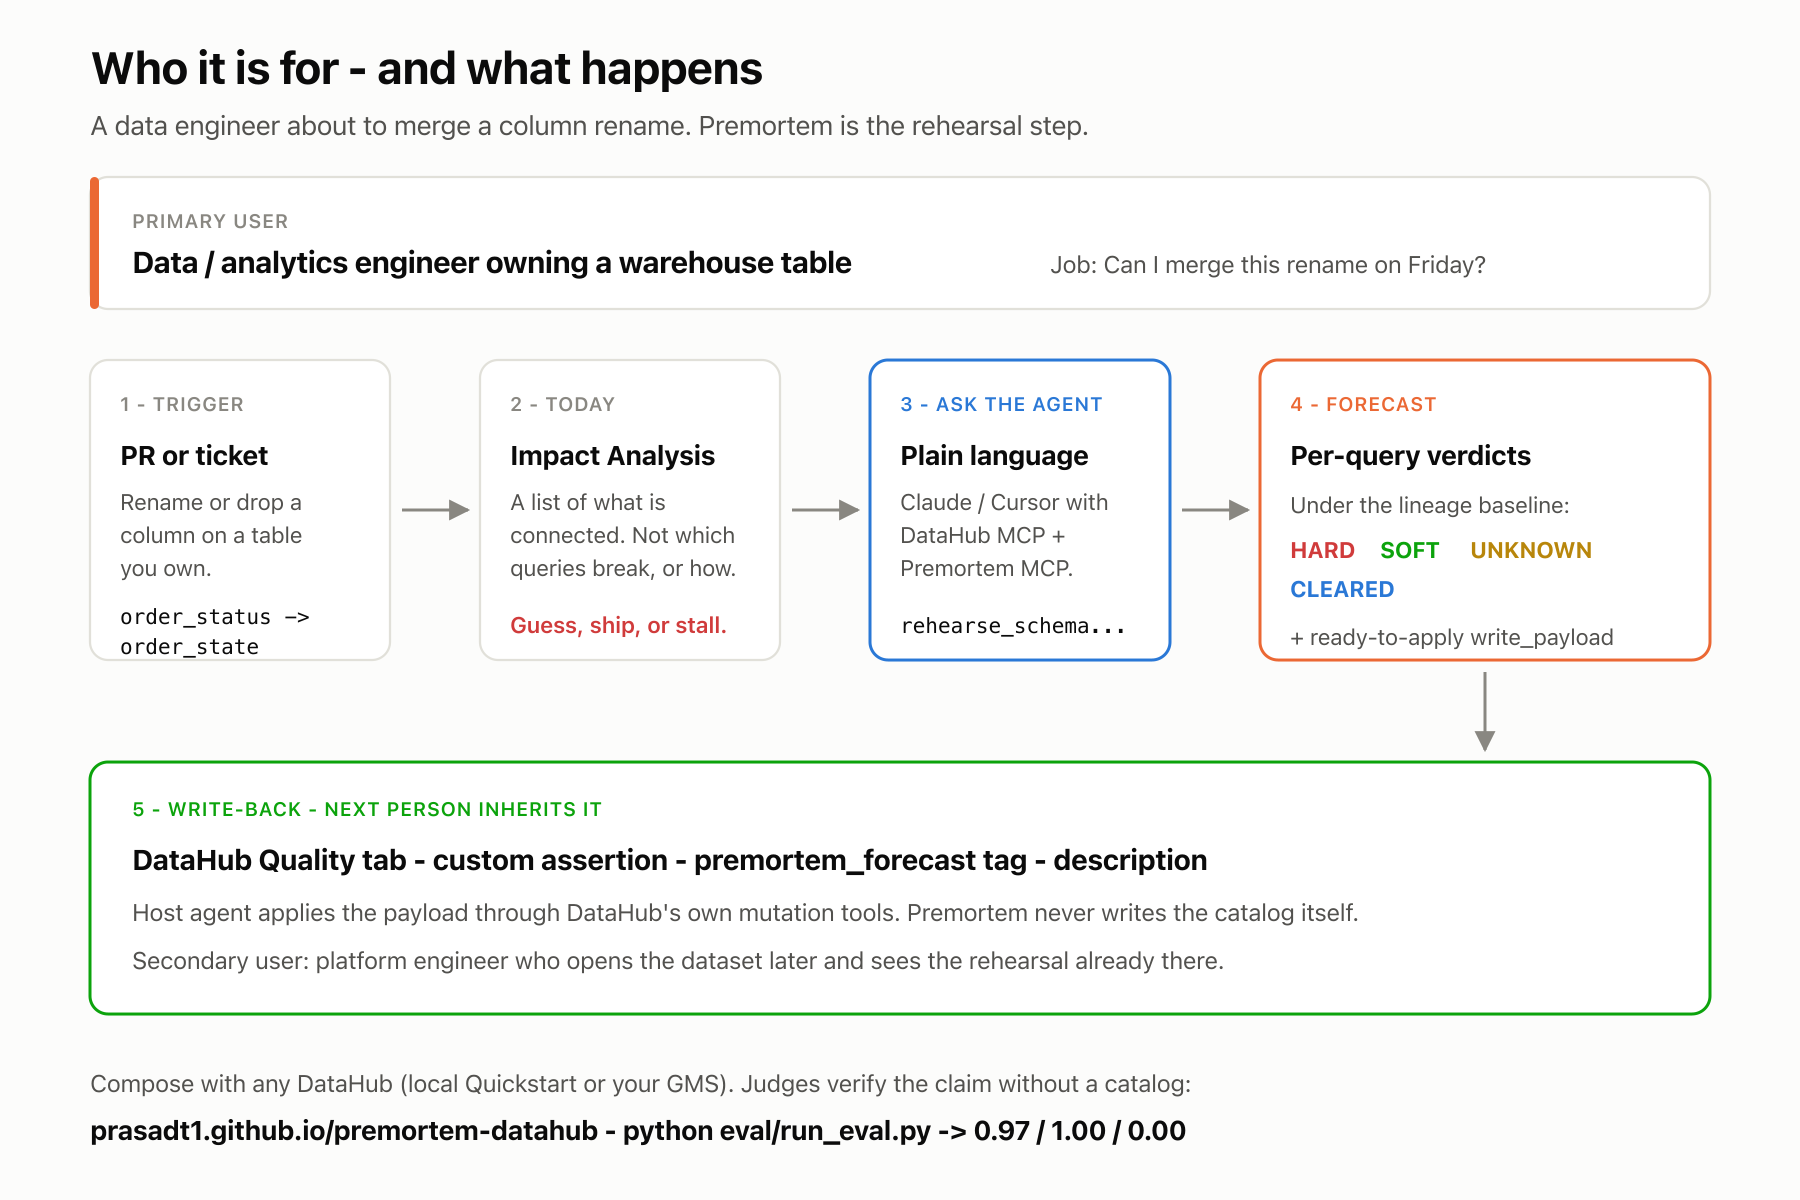
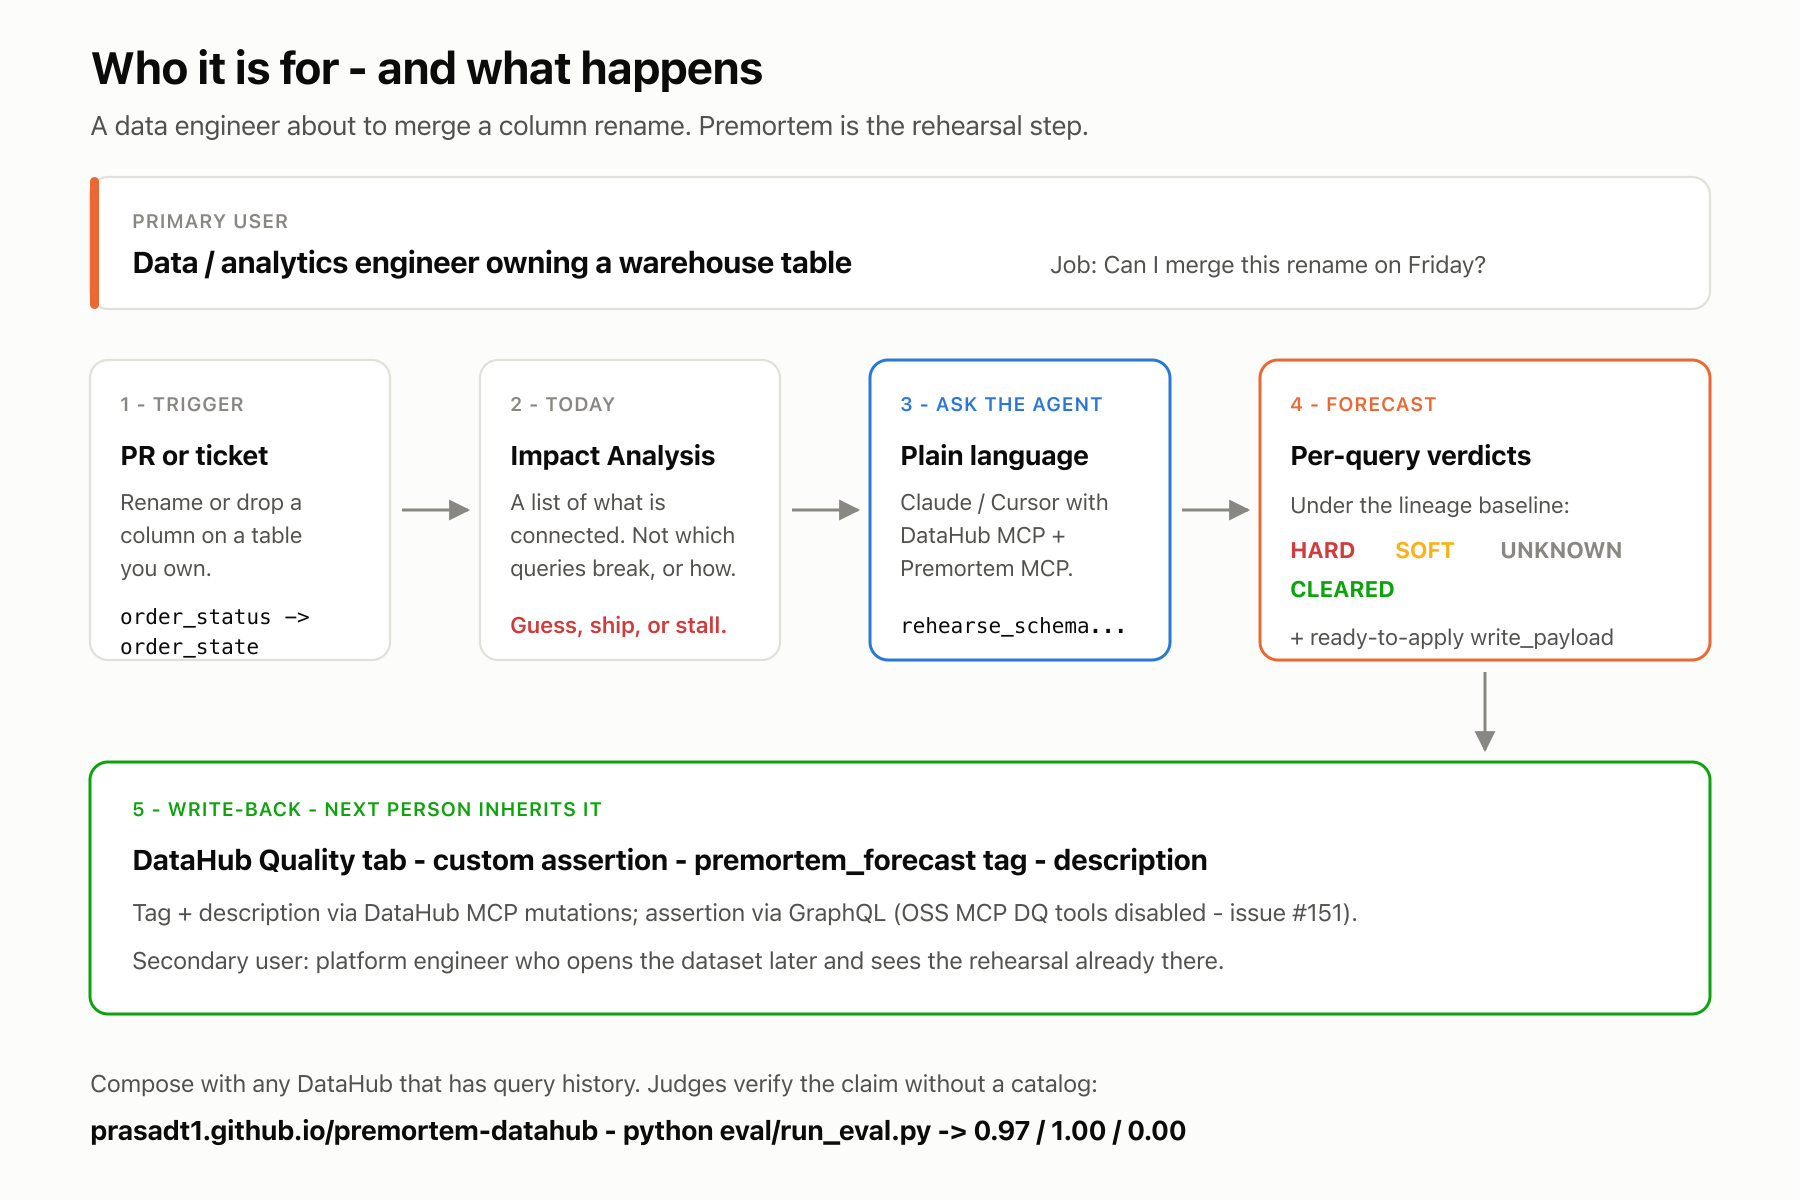
Harden judge-facing copy before the presentation freeze.
Honest write-back channels, eval discipline, LLM labeler provenance, taxonomy
color alignment, and filmed-surface footnotes (39/40, stratum ns, 84.75%,
missing-schema reading) so Pages and RESULTS match what the video will show.

diff --git a/docs/index.html b/docs/index.html
@@ -4,7 +4,7 @@
   <meta charset="utf-8" />
   <meta name="viewport" content="width=device-width, initial-scale=1" />
   <title>Premortem — how it breaks, before you merge</title>
-  <meta name="description" content="Schema-change rehearsal for DataHub: HARD / SOFT / UNKNOWN / CLEARED from query history. Frozen eval: accuracy 0.97, HARD precision 1.00, decoy FP 0.00." />
+  <meta name="description" content="Schema-change rehearsal for DataHub: HARD / SOFT / UNKNOWN / CLEARED from query history. Frozen eval: accuracy 0.97 (39/40), HARD precision 1.00, decoy FP 0.00." />
   <style>
     :root {
       --bg: #f7f5f1;
@@ -462,15 +462,15 @@
       <div class="stats" role="group" aria-label="Frozen eval headline metrics">
         <div class="stat">
           <div class="n">1.00</div>
-          <span class="l">HARD precision<br />(C classifier)</span>
+          <span class="l">HARD precision<br />(Premortem binder · n=15)</span>
         </div>
         <div class="stat">
           <div class="n">0.00</div>
-          <span class="l">decoy false alarms<br />(C classifier)</span>
+          <span class="l">decoy false alarms<br />(Premortem binder · n=6)</span>
         </div>
         <div class="stat">
           <div class="n">0.97</div>
-          <span class="l">accuracy<br />(C classifier)</span>
+          <span class="l">accuracy<br />(39/40 · truncated)</span>
         </div>
       </div>
       <div class="reproduce">
@@ -493,8 +493,10 @@ python eval/run_eval.py</code></pre>
       <figure>
         <img src="media/customer-journey.png" width="1800" height="1200" alt="Customer journey: PR trigger, Impact Analysis today, ask the agent, per-query forecast, write-back to the Quality tab." />
         <figcaption>
-          Five steps from trigger to write-back. The live catalog path is bring-your-own
-          DataHub; the measurement path is the frozen eval on this page’s reproduce block.
+          Five steps from trigger to write-back. Live path: bring-your-own DataHub with
+          <strong>query history</strong> on the subject (stock Quickstart needs seeding —
+          that is why the demo seeder exists). Measurement path: frozen eval on this page’s
+          reproduce block. CLEARED is the named subset of UNAFFECTED.
         </figcaption>
       </figure>
     </section>
@@ -617,7 +619,10 @@ WHERE <span class="hl">s</span>.order_status = 'SHIPPED'</code></pre>
       </p>
       <figure>
         <img src="media/verdict-taxonomy.png" width="1800" height="1200" alt="HARD, SOFT, UNKNOWN, and CLEARED each illustrated with a real query shape." />
-        <figcaption>Verdict taxonomy — remediation blast radius, not “breaks vs still runs.”</figcaption>
+        <figcaption>
+          Four named outcomes on the page; CLEARED is the named subset of UNAFFECTED
+          (same-named column binds elsewhere). Full taxonomy in the diagram.
+        </figcaption>        <figcaption>Verdict taxonomy — remediation blast radius, not “breaks vs still runs.”</figcaption>
       </figure>
       <div class="forecast" aria-label="Sample forecast output">
         <div class="forecast-head">
@@ -704,10 +709,16 @@ WHERE <span class="hl">s</span>.order_status = 'SHIPPED'</code></pre>
     <section aria-labelledby="composition">
       <h2 id="composition">Composition</h2>
       <p>
-        One agent session registers two MCP servers: DataHub’s for schema, lineage,
-        and query history (and for write-back), Premortem’s for
-        <code>rehearse_schema_change</code>. The host applies the returned
-        <code>write_payload</code> as-is — no recomputing.
+        One agent session registers two MCP servers. Live reads use the
+        <strong>DataHub Agent Context Kit</strong> (schema, lineage, query history).
+        Premortem’s server runs <code>rehearse_schema_change</code> and returns a
+        forecast plus <code>write_payload</code>. The host applies that payload as-is:
+        <strong>tag + description via DataHub MCP mutations; the custom assertion
+        (<code>platform=premortem</code>) via GraphQL</strong> — OSS MCP Data Quality
+        tools are DISABLED
+        (<a href="https://github.com/acryldata/mcp-server-datahub/issues/151">#151</a>).
+        Result on the Quality tab: assertion + <code>premortem_forecast</code> tag +
+        description — no recomputing.
       </p>
       <figure>
         <img src="media/dual-mcp-flow.png" width="1800" height="1200" alt="One agent session with two MCP servers: DataHub supplies schema, lineage and query history and receives the write-back; Premortem runs the rehearsal and returns a write payload." />
@@ -762,7 +773,7 @@ WHERE <span class="hl">s</span>.order_status = 'SHIPPED'</code></pre>
       </p>
       <div class="stats" role="group" aria-label="Real-world observables">
         <div class="stat">
-          <div class="n">84.7%</div>
+          <div class="n">84.75%</div>
           <span class="l">parse rate<br />(18 Jinja / BQ / sqlglot gaps)</span>
         </div>
         <div class="stat">
@@ -775,10 +786,13 @@ WHERE <span class="hl">s</span>.order_status = 'SHIPPED'</code></pre>
         </div>
       </div>
       <p>
-        The honest reading is favourable: pointed at a codebase where it lacks the
-        schemas, Premortem says <em>needs a human</em> rather than guessing. An
-        earlier unsound CLEARED rule had falsely cleared 74% of rows despite a 0.09
-        table-resolution rate — that defect is fixed and named in the report.
+        This run measures <strong>missing-schema</strong> behavior. With schemas present
+        (a real DataHub-connected warehouse), narrowable references bind instead of
+        abstaining; the 11% CLEARED here are qualified references to known non-subject
+        tables. Pointed at a codebase where it lacks the schemas, Premortem says
+        <em>needs a human</em> rather than guessing. An earlier unsound CLEARED rule
+        had falsely cleared 74% of rows despite a 0.09 table-resolution rate — that
+        defect is fixed and named in the report.
       </p>
       <p class="muted">
         Limitation: 6 of the 13 CLEARED resolve to <code>clients_daily</code> while

diff --git a/docs/real-world-run.html b/docs/real-world-run.html
@@ -105,6 +105,13 @@
     <h2>Parse rate</h2>
     <p><strong>84.75%</strong> (100/118) non-parse-failure. Failures (18): Jinja templating, BigQuery scripting, sqlglot coverage gaps.</p>
 
+    <h2>What this run measures</h2>
+    <p>
+      This is <strong>missing-schema</strong> behavior. With schemas present (a real
+      DataHub-connected warehouse), narrowable references bind instead of abstaining;
+      the 11% CLEARED below are qualified references to known non-subject tables.
+    </p>
+
     <h2>Corrected verdict distribution</h2>
     <p>
       After fixing a false-CLEARED defect (clear only when the qualifier resolves to a

diff --git a/README.md b/README.md
@@ -23,7 +23,7 @@ pytest -q
 python eval/run_eval.py
 ```
 
-That reproduces the published numbers in [`eval/RESULTS.md`](eval/RESULTS.md): C accuracy **0.97**, HARD precision **1.00**, decoy FP **0.00**. The frozen eval is the measurement; the live demo below is a constructed instance for the video.
+That reproduces the published numbers in [`eval/RESULTS.md`](eval/RESULTS.md): Premortem (binder) accuracy **0.97** (**39/40**, truncated), HARD precision **1.00** (n=15), decoy FP **0.00** (n=6). The frozen eval is the measurement; the live demo below is a constructed instance for the video.
 
 ## What you get
 
@@ -32,7 +32,7 @@ That reproduces the published numbers in [`eval/RESULTS.md`](eval/RESULTS.md): C
 | **HARD** | Column in `WHERE` / `JOIN` / `GROUP BY` / `ORDER BY` / `HAVING` / window — repair can change row counts or results |
 | **SOFT** | `SELECT`-list only — contained, mechanical rename downstream |
 | **UNKNOWN** | Unparseable SQL, bare column still ambiguous after schema resolution, `SELECT *` — needs a human; never guessed |
-| **UNAFFECTED** | No subject-bound reference — either **CLEARED** (same-named column binds elsewhere; listed) or no query evidence of the column (count) |
+| **UNAFFECTED** | No subject-bound reference — either **CLEARED** (the named subset: same-named column binds elsewhere; listed) or no query evidence of the column (count) |
 
 Forecasts are ranked HARD → SOFT → UNKNOWN, composed under an Impact Analysis baseline (“N downstream dependents”), and emitted as markdown + JSON. I do **not** invent execution counts; `(exec×N)` appears only when the catalog actually provides them.
 
@@ -45,9 +45,9 @@ pip install -e ".[dev,datahub,mcp]"
 python tools/seed_demo_environment.py
 ```
 
-Then register both MCP servers ([`examples/MCP_COMPOSITION.md`](examples/MCP_COMPOSITION.md)) and ask an agent to rehearse renaming `order_status` → `order_state` on ORDER_HISTORY. Expect DataHub MCP for schema/lineage/queries, Premortem `rehearse_schema_change` for the forecast + `write_payload`, and the host applying that payload as-is — custom assertion (Quality tab), `premortem_forecast` tag, description.
+Then register both MCP servers ([`examples/MCP_COMPOSITION.md`](examples/MCP_COMPOSITION.md)) and ask an agent to rehearse renaming `order_status` → `order_state` on ORDER_HISTORY. Expect **DataHub Agent Context Kit** / DataHub MCP for schema/lineage/queries, Premortem `rehearse_schema_change` for the forecast + `write_payload`, and the host applying that payload as-is: **tag + description via DataHub MCP mutations; custom assertion via GraphQL** (OSS MCP Data Quality tools are DISABLED — [#151](https://github.com/acryldata/mcp-server-datahub/issues/151)). Result: Quality-tab assertion (`platform=premortem`) + `premortem_forecast` tag + description.
 
-Live catalog default is the **DataHub Agent Kit** (`PREMORTEM_CATALOG=kit`). Explicit GraphQL fallback: `PREMORTEM_CATALOG=graphql` or `--catalog graphql`.
+Live catalog default is the **DataHub Agent Context Kit** (`PREMORTEM_CATALOG=kit`). Explicit GraphQL fallback: `PREMORTEM_CATALOG=graphql` or `--catalog graphql`. The live path needs **query history** on the subject dataset (stock Quickstart does not; the demo seeder creates it).
 
 ## Usage
 

diff --git a/eval/README.md b/eval/README.md
@@ -49,16 +49,19 @@ Baselines: **B0** every-IA-dependent-breaks (the bar Impact Analysis alone impli
 
 1. Labels authored per the approved taxonomy (remediation blast radius; spec §1) with a
    sha256 recorded before any external review.
-2. **Three independent labelers** labeled all 40 queries blind — given only the corpus,
-   the schema fixture, and the taxonomy; barred from the rest of the repo. Result:
-   **40/40 agreement with the authored labels, from all three** (no adjudication needed).
+2. **Three independent blind LLM labeling runs** labeled all 40 queries — each given
+   only the corpus, the schema fixture, and the taxonomy; barred from the rest of the
+   repo (including authored labels and classifier code). Result: **40/40 agreement with
+   the authored labels, from all three** (no adjudication needed). Disclosed as LLM
+   runs, not human labelers — still a genuine blind-agreement check.
 3. A parse sweep confirmed exactly the four `unparseable`-stratum files fail
    `sqlglot.parse_one(..., read="snowflake")` (sqlglot 30.13.0) and the other 36 parse.
 4. A leakage check against `tests/fixtures/queries/` and `examples/seeded_queries.json`
    flagged three near-duplicates of the demo seed corpus (q01, q03, q10); all three were
    rewritten to structurally distinct SQL (same stratum and gold role) and re-verified
-   blind by three fresh labelers. Rule: `tests/` locks behavior, `eval/` measures it,
-   the demo seed is neither — no shared SQL across the three.
+   blind by three fresh LLM labeling runs. Rule: `tests/` locks behavior, `eval/` measures it,
+   the demo seed is neither — no shared SQL across the three. The binder was developed
+   against `tests/` fixtures; the frozen forty were never tuning targets.
 
 ## Documented taxonomy decisions (from independent-labeler review)
 

diff --git a/eval/RESULTS.md b/eval/RESULTS.md
@@ -7,6 +7,12 @@ Harness is an adapter; this file records measurement against that freeze.
 Measured on binder commit `94949ba` (+ catalog facade thereafter does not change
 classifier numbers). Re-run: `python eval/run_eval.py`.
 
+**Discipline:** the binder was developed against `tests/` fixtures; the frozen forty
+queries were never tuning targets. Measurement only: `python eval/run_eval.py`.
+
+Corpus: **n=40**. Label provenance: three independent blind **LLM labeling runs**
+(corpus + schema fixture + taxonomy only) agreed with the authored labels **40/40** —
+see [`eval/README.md`](README.md).
 ## Headline metrics
 
 | run | accuracy | HARD prec | HARD rec | UNKNOWN rate | decoy FP |
@@ -16,6 +22,12 @@ classifier numbers). Re-run: `python eval/run_eval.py`.
 | **C classifier (binder)** | **0.97** | **1.00** | **0.94** | 0.23 | **0.00** |
 | C+A adjudicated (heuristic) | 0.90 | 0.88 | 0.94 | 0.15 | 0.00 |
 | B2 LLM-on-residue (cached) | 0.97 | 1.00 | 0.94 | 0.23 | 0.00 |
+
+**How to read the binder row.** Accuracy **0.97** is **39/40** — truncated, not rounded.
+HARD precision **1.00** is over **n=15** predicted HARD (15/15 true positives; the one miss
+is a gold HARD scored SOFT — q39 — so it never enters the precision denominator).
+HARD recall **0.94** is 15/16 gold HARD. Decoy FP **0.00** is over the **n=6** decoy
+stratum. UNKNOWN rate 0.23 is 9/40.
 
 Before/after the multi-table binder (freeze baseline → binder):
 

diff --git a/docs/real-world-run.md b/docs/real-world-run.md
@@ -27,6 +27,10 @@ An earlier draft of this run reported CLEARED=87 alongside a table-resolution ra
 
 **84.75%** (100/118) statements produced a non-parse-failure verdict. Parse failures: **18** (typically heavy Jinja, BigQuery scripting, or sqlglot coverage gaps).
 
+## What this run measures
+
+This is **missing-schema** behavior. With schemas present (a real DataHub-connected warehouse), narrowable references bind instead of abstaining; the 11% CLEARED below are qualified references to known non-subject tables.
+
 Example parse failures:
 
 - `bigquery_etl/glam/templates/histogram_bucket_counts_v1.sql` - sqlglot parse failed: Invalid expression / Unexpected token. Line 4, Col: 4.
